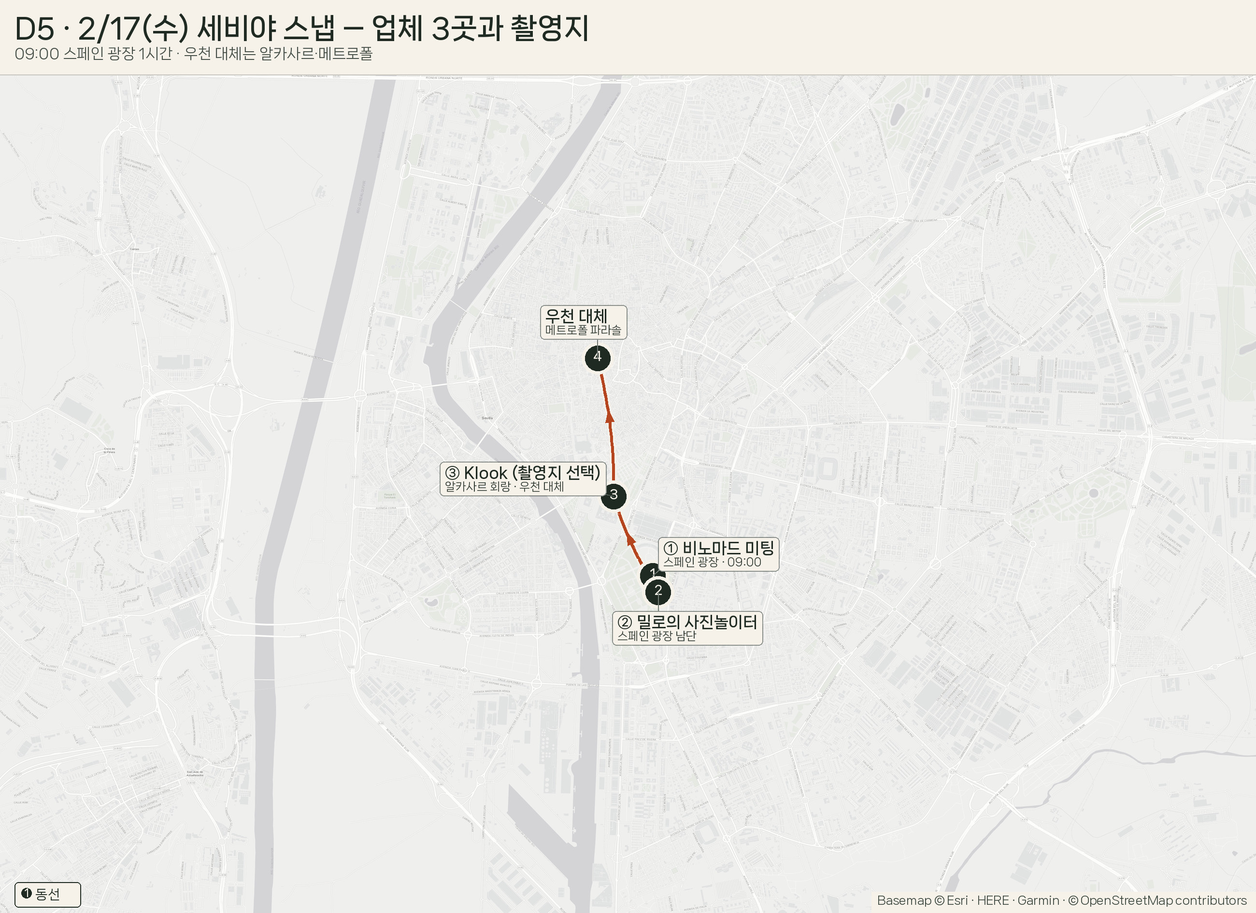
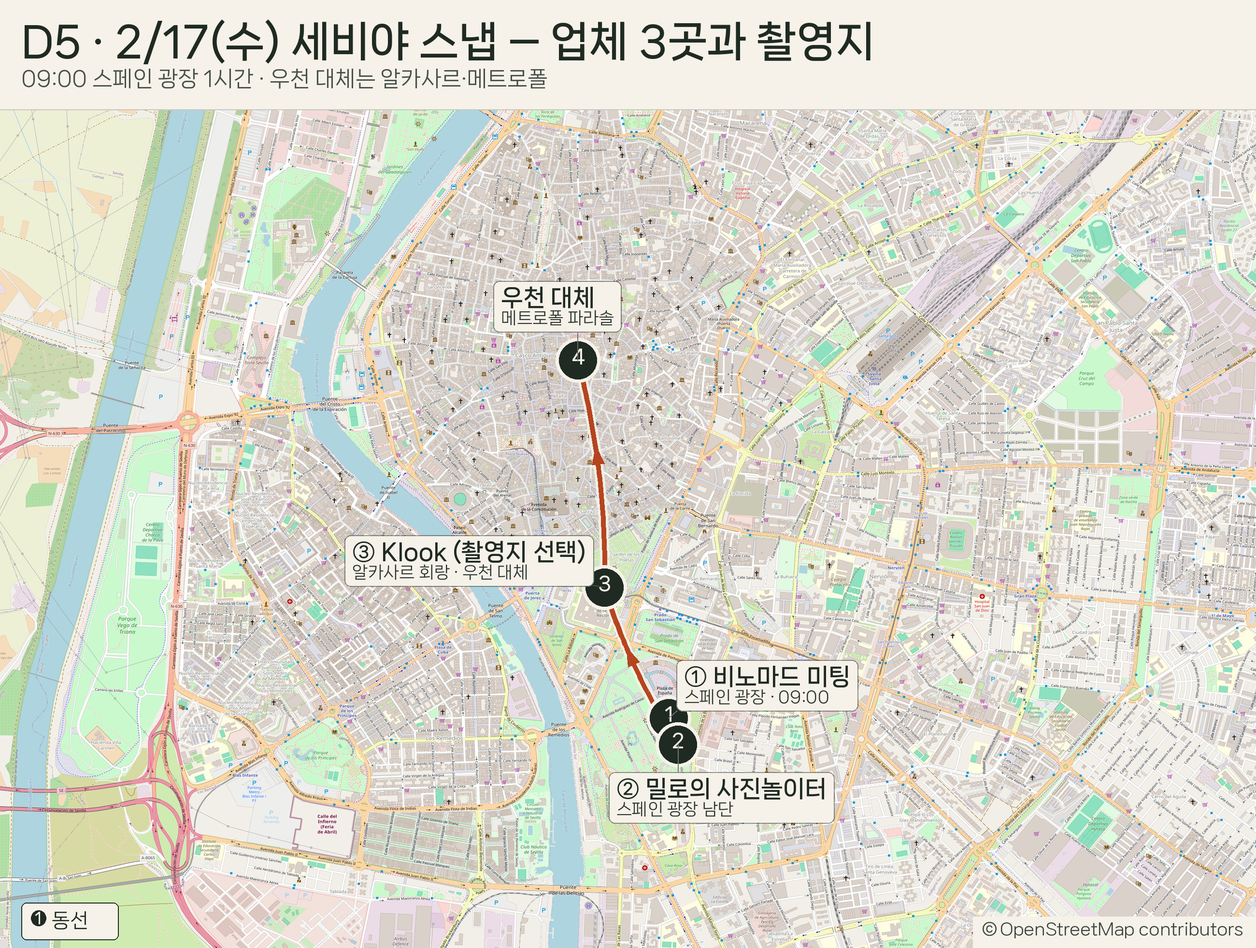
주간 갱신: 항공·숙박 실시간 요금 반영 (2026-11-16)

diff --git a/itinerary.html b/itinerary.html
@@ -262,7 +262,7 @@ body::after{
       
     </header>
 
-    <figure class="day-map"><img src="img/S-00-전체동선.jpg" alt="D1 · 2/13 (토) 인천 → 암스테르담 지도" loading="eager"><figcaption>동선 개요도 · WGS84 좌표를 메르카토르로 투영</figcaption></figure>
+    <figure class="day-map"><img src="img/00-전체동선.jpg" alt="D1 · 2/13 (토) 인천 → 암스테르담 지도" loading="eager"><figcaption>지도 © OpenStreetMap contributors</figcaption></figure>
 
     <table class="ledger">
       <caption class="sr-only">D1 · 2/13 (토) 인천 → 암스테르담 시간표</caption>
@@ -298,7 +298,7 @@ body::after{
       <div class="wx-pill"><b>리스본</b><span>최고 <b>17.1℃</b> / 최저 <b>9.9℃</b></span><small>강수일 20% · 과거 5년 평균(예보 아님)</small></div>
     </header>
 
-    <figure class="day-map"><img src="img/S-D02b-리스본벨렝.jpg" alt="D2 · 2/14 (일) 리스본 → 포르투 지도" loading="eager"><figcaption>동선 개요도 · WGS84 좌표를 메르카토르로 투영</figcaption></figure>
+    <figure class="day-map"><img src="img/D02b-리스본벨렝.jpg" alt="D2 · 2/14 (일) 리스본 → 포르투 지도" loading="eager"><figcaption>지도 © OpenStreetMap contributors</figcaption></figure>
 
     <table class="ledger">
       <caption class="sr-only">D2 · 2/14 (일) 리스본 → 포르투 시간표</caption>
@@ -340,7 +340,7 @@ body::after{
       <div class="wx-pill"><b>포르투</b><span>최고 <b>16.1℃</b> / 최저 <b>9.3℃</b></span><small>강수일 40% · 과거 5년 평균(예보 아님)</small></div>
     </header>
 
-    <figure class="day-map"><img src="img/S-D03-포르투.jpg" alt="D3 · 2/15 (월) 포르투 — 리베이라 · 렐루 서점 지도" loading="eager"><figcaption>동선 개요도 · WGS84 좌표를 메르카토르로 투영</figcaption></figure>
+    <figure class="day-map"><img src="img/D03-포르투.jpg" alt="D3 · 2/15 (월) 포르투 — 리베이라 · 렐루 서점 지도" loading="eager"><figcaption>지도 © OpenStreetMap contributors</figcaption></figure>
 
     <table class="ledger">
       <caption class="sr-only">D3 · 2/15 (월) 포르투 — 리베이라 · 렐루 서점 시간표</caption>
@@ -379,7 +379,7 @@ body::after{
       <div class="wx-pill"><b>세비야</b><span>최고 <b>19.4℃</b> / 최저 <b>8.8℃</b></span><small>강수일 0% · 과거 5년 평균(예보 아님)</small></div>
     </header>
 
-    <figure class="day-map"><img src="img/S-D04b-세비야시내.jpg" alt="D4 · 2/16 (화) 포르투 → 세비야 지도" loading="eager"><figcaption>동선 개요도 · WGS84 좌표를 메르카토르로 투영</figcaption></figure>
+    <figure class="day-map"><img src="img/D04b-세비야시내.jpg" alt="D4 · 2/16 (화) 포르투 → 세비야 지도" loading="eager"><figcaption>지도 © OpenStreetMap contributors</figcaption></figure>
 
     <table class="ledger">
       <caption class="sr-only">D4 · 2/16 (화) 포르투 → 세비야 시간표</caption>
@@ -419,7 +419,7 @@ body::after{
       <div class="wx-pill"><b>세비야</b><span>최고 <b>19.7℃</b> / 최저 <b>9.1℃</b></span><small>강수일 0% · 과거 5년 평균(예보 아님)</small></div>
     </header>
 
-    <figure class="day-map"><img src="img/S-D05-세비야.jpg" alt="D5 · 2/17 (수) 세비야 — 스냅 · 알카사르 지도" loading="eager"><figcaption>동선 개요도 · WGS84 좌표를 메르카토르로 투영</figcaption></figure>
+    <figure class="day-map"><img src="img/D05-세비야.jpg" alt="D5 · 2/17 (수) 세비야 — 스냅 · 알카사르 지도" loading="eager"><figcaption>지도 © OpenStreetMap contributors</figcaption></figure>
 
     <table class="ledger">
       <caption class="sr-only">D5 · 2/17 (수) 세비야 — 스냅 · 알카사르 시간표</caption>
@@ -458,7 +458,7 @@ body::after{
       <div class="wx-pill"><b>그라나다</b><span>최고 <b>18.7℃</b> / 최저 <b>6.1℃</b></span><small>강수일 0% · 과거 5년 평균(예보 아님)</small></div>
     </header>
 
-    <figure class="day-map"><img src="img/S-D06b-그라나다알바이신.jpg" alt="D6 · 2/18 (목) 세비야 → 그라나다 지도" loading="eager"><figcaption>동선 개요도 · WGS84 좌표를 메르카토르로 투영</figcaption></figure>
+    <figure class="day-map"><img src="img/D06b-그라나다알바이신.jpg" alt="D6 · 2/18 (목) 세비야 → 그라나다 지도" loading="eager"><figcaption>지도 © OpenStreetMap contributors</figcaption></figure>
 
     <table class="ledger">
       <caption class="sr-only">D6 · 2/18 (목) 세비야 → 그라나다 시간표</caption>
@@ -496,7 +496,7 @@ body::after{
       <div class="wx-pill"><b>그라나다</b><span>최고 <b>16.8℃</b> / 최저 <b>6.0℃</b></span><small>강수일 0% · 과거 5년 평균(예보 아님)</small></div>
     </header>
 
-    <figure class="day-map"><img src="img/S-D07-그라나다알함브라.jpg" alt="D7 · 2/19 (금) 그라나다 — 알함브라 지도" loading="eager"><figcaption>동선 개요도 · WGS84 좌표를 메르카토르로 투영</figcaption></figure>
+    <figure class="day-map"><img src="img/D07-그라나다알함브라.jpg" alt="D7 · 2/19 (금) 그라나다 — 알함브라 지도" loading="eager"><figcaption>지도 © OpenStreetMap contributors</figcaption></figure>
 
     <table class="ledger">
       <caption class="sr-only">D7 · 2/19 (금) 그라나다 — 알함브라 시간표</caption>
@@ -534,7 +534,7 @@ body::after{
       <div class="wx-pill"><b>바르셀로나</b><span>최고 <b>16.0℃</b> / 최저 <b>7.7℃</b></span><small>강수일 0% · 과거 5년 평균(예보 아님)</small></div>
     </header>
 
-    <figure class="day-map"><img src="img/S-D08b-바르셀로나쇼핑.jpg" alt="D8 · 2/20 (토) 그라나다 → 바르셀로나 — 쇼핑 ① 지도" loading="eager"><figcaption>동선 개요도 · WGS84 좌표를 메르카토르로 투영</figcaption></figure>
+    <figure class="day-map"><img src="img/D08b-바르셀로나쇼핑.jpg" alt="D8 · 2/20 (토) 그라나다 → 바르셀로나 — 쇼핑 ① 지도" loading="eager"><figcaption>지도 © OpenStreetMap contributors</figcaption></figure>
 
     <table class="ledger">
       <caption class="sr-only">D8 · 2/20 (토) 그라나다 → 바르셀로나 — 쇼핑 ① 시간표</caption>
@@ -575,7 +575,7 @@ body::after{
       <div class="wx-pill"><b>바르셀로나</b><span>최고 <b>16.5℃</b> / 최저 <b>7.6℃</b></span><small>강수일 20% · 과거 5년 평균(예보 아님)</small></div>
     </header>
 
-    <figure class="day-map"><img src="img/S-D09-바르셀로나.jpg" alt="D9 · 2/21 (일) 바르셀로나 — 가우디 건축 지도" loading="eager"><figcaption>동선 개요도 · WGS84 좌표를 메르카토르로 투영</figcaption></figure>
+    <figure class="day-map"><img src="img/D09-바르셀로나.jpg" alt="D9 · 2/21 (일) 바르셀로나 — 가우디 건축 지도" loading="eager"><figcaption>지도 © OpenStreetMap contributors</figcaption></figure>
 
     <table class="ledger">
       <caption class="sr-only">D9 · 2/21 (일) 바르셀로나 — 가우디 건축 시간표</caption>
@@ -615,7 +615,7 @@ body::after{
       <div class="wx-pill"><b>몬세라트</b><span>최고 <b>14.5℃</b> / 최저 <b>2.4℃</b></span><small>강수일 40% · 과거 5년 평균(예보 아님)</small></div>
     </header>
 
-    <figure class="day-map day-slider" data-slides="2"><div class="slides"><div class="slide" role="group" aria-label="가는 길 1"><img src="img/S-D10a-몬세라트노선.jpg" alt="D10 바르셀로나 — 몬세라트 · 소년합창단 가는 길 지도" loading="eager"><span class="slide-tag">가는 길</span></div><div class="slide" role="group" aria-label="수도원 2" hidden><img src="img/S-D10b-몬세라트수도원.jpg" alt="D10 바르셀로나 — 몬세라트 · 소년합창단 수도원 지도" loading="lazy"><span class="slide-tag">수도원</span></div></div><div class="slider-nav"><button type="button" class="prev" aria-label="이전 지도">‹</button><div class="dots"><button type="button" aria-label="가는 길 지도 보기" aria-current="true"></button><button type="button" aria-label="수도원 지도 보기"></button></div><button type="button" class="next" aria-label="다음 지도">›</button></div><figcaption>동선 개요도 · 먼 구간과 가까운 구간을 나눠 봄</figcaption></figure>
+    <figure class="day-map day-slider" data-slides="2"><div class="slides"><div class="slide" role="group" aria-label="가는 길 1"><img src="img/D10a-몬세라트노선.jpg" alt="D10 바르셀로나 — 몬세라트 · 소년합창단 가는 길 지도" loading="eager"><span class="slide-tag">가는 길</span></div><div class="slide" role="group" aria-label="수도원 2" hidden><img src="img/D10b-몬세라트수도원.jpg" alt="D10 바르셀로나 — 몬세라트 · 소년합창단 수도원 지도" loading="lazy"><span class="slide-tag">수도원</span></div></div><div class="slider-nav"><button type="button" class="prev" aria-label="이전 지도">‹</button><div class="dots"><button type="button" aria-label="가는 길 지도 보기" aria-current="true"></button><button type="button" aria-label="수도원 지도 보기"></button></div><button type="button" class="next" aria-label="다음 지도">›</button></div><figcaption>가는 길 · 현지 확대 © OpenStreetMap contributors</figcaption></figure>
 
     <table class="ledger">
       <caption class="sr-only">D10 · 2/22 (월) 바르셀로나 — 몬세라트 · 소년합창단 시간표</caption>
@@ -658,7 +658,7 @@ body::after{
       <div class="wx-pill"><b>바르셀로나</b><span>최고 <b>15.7℃</b> / 최저 <b>6.9℃</b></span><small>강수일 60% · 과거 5년 평균(예보 아님)</small></div>
     </header>
 
-    <figure class="day-map"><img src="img/S-D11-바르셀로나출국.jpg" alt="D11 · 2/23 (화) 바르셀로나 → 인천 지도" loading="eager"><figcaption>동선 개요도 · WGS84 좌표를 메르카토르로 투영</figcaption></figure>
+    <figure class="day-map"><img src="img/D11-바르셀로나출국.jpg" alt="D11 · 2/23 (화) 바르셀로나 → 인천 지도" loading="eager"><figcaption>지도 © OpenStreetMap contributors</figcaption></figure>
 
     <table class="ledger">
       <caption class="sr-only">D11 · 2/23 (화) 바르셀로나 → 인천 시간표</caption>

diff --git a/index.html b/index.html
@@ -293,7 +293,7 @@ footer{border-top:3px solid var(--rule-strong); margin-top:var(--s-8); padding-t
 <section class="block">
   <div class="wrap"><h2>날짜별 지도 — 크게 보기</h2>
   <p class="sub">각 날짜의 동선을 지도 위에 번호로 얹었어요. 누르면 그날의 시각표로 넘어가요.</p></div>
-  <div class="wrap"><div class="gallery"><figure><a href="itinerary.html#day-2" aria-label="D2 · 2/14(일) 2/14 (일) 리스본 → 포르투 일정 보기"><img src="img/S-D02b-리스본벨렝.jpg" alt="D2 · 2/14(일) 2/14 (일) 리스본 → 포르투 지도" loading="lazy"></a><figcaption>D2 · 2/14 (일) — 리스본 → 포르투<small>LIS 10:30 · 제로니무스 · 21:05 포르투</small></figcaption></figure><figure><a href="itinerary.html#day-3" aria-label="D3 · 2/15(월) 2/15 (월) 포르투 — 리베이라 · 렐루 서점 일정 보기"><img src="img/S-D03-포르투.jpg" alt="D3 · 2/15(월) 2/15 (월) 포르투 — 리베이라 · 렐루 서점 지도" loading="lazy"></a><figcaption>D3 · 2/15 (월) — 포르투 — 리베이라 · 렐루 서점<small>렐루 서점 · 리베이라 · 카사 게데스</small></figcaption></figure><figure><a href="itinerary.html#day-4" aria-label="D4 · 2/16(화) 2/16 (화) 포르투 → 세비야 일정 보기"><img src="img/S-D04b-세비야시내.jpg" alt="D4 · 2/16(화) 2/16 (화) 포르투 → 세비야 지도" loading="lazy"></a><figcaption>D4 · 2/16 (화) — 포르투 → 세비야<small>라이언 2h15 → 세비야 · 대성당</small></figcaption></figure><figure><a href="itinerary.html#day-5" aria-label="D5 · 2/17(수) 2/17 (수) 세비야 — 스냅 · 알카사르 일정 보기"><img src="img/S-D05-세비야.jpg" alt="D5 · 2/17(수) 2/17 (수) 세비야 — 스냅 · 알카사르 지도" loading="lazy"></a><figcaption>D5 · 2/17 (수) — 세비야 — 스냅 · 알카사르<small>스냅 촬영 · 레알 알카사르</small></figcaption></figure><figure><a href="itinerary.html#day-6" aria-label="D6 · 2/18(목) 2/18 (목) 세비야 → 그라나다 일정 보기"><img src="img/S-D06b-그라나다알바이신.jpg" alt="D6 · 2/18(목) 2/18 (목) 세비야 → 그라나다 지도" loading="lazy"></a><figcaption>D6 · 2/18 (목) — 세비야 → 그라나다<small>알사 버스 3h → 그라나다 · 알바이신</small></figcaption></figure><figure><a href="itinerary.html#day-7" aria-label="D7 · 2/19(금) 2/19 (금) 그라나다 — 알함브라 일정 보기"><img src="img/S-D07-그라나다알함브라.jpg" alt="D7 · 2/19(금) 2/19 (금) 그라나다 — 알함브라 지도" loading="lazy"></a><figcaption>D7 · 2/19 (금) — 그라나다 — 알함브라<small>알함브라 나사리 궁전 · 헤네랄리페</small></figcaption></figure><figure><a href="itinerary.html#day-8" aria-label="D8 · 2/20(토) 2/20 (토) 그라나다 → 바르셀로나 — 쇼핑 ① 일정 보기"><img src="img/S-D08b-바르셀로나쇼핑.jpg" alt="D8 · 2/20(토) 2/20 (토) 그라나다 → 바르셀로나 — 쇼핑 ① 지도" loading="lazy"></a><figcaption>D8 · 2/20 (토) — 그라나다 → 바르셀로나 — 쇼핑 ①<small>부엘링 1h25 → 바르셀로나 · 쇼핑 ①</small></figcaption></figure><figure><a href="itinerary.html#day-9" aria-label="D9 · 2/21(일) 2/21 (일) 바르셀로나 — 가우디 건축 일정 보기"><img src="img/S-D09-바르셀로나.jpg" alt="D9 · 2/21(일) 2/21 (일) 바르셀로나 — 가우디 건축 지도" loading="lazy"></a><figcaption>D9 · 2/21 (일) — 바르셀로나 — 가우디 건축<small>가우디 — 구엘 · 사그라다 내부</small></figcaption></figure><figure><a href="itinerary.html#day-10" aria-label="D10 2/22 (월) 바르셀로나 — 몬세라트 · 소년합창단 일정 보기"><img src="img/S-D10a-몬세라트노선.jpg" alt="D10 2/22 (월) 바르셀로나 — 몬세라트 · 소년합창단 지도" loading="lazy"></a><figcaption>D10 · 2/22 (월) — 바르셀로나 — 몬세라트 · 소년합창단<small>몬세라트 · 에스콜라니아 13:00 · 쇼핑 ②</small></figcaption></figure><figure><a href="itinerary.html#day-11" aria-label="D11 2/23 (화) 바르셀로나 → 인천 일정 보기"><img src="img/S-D11-바르셀로나출국.jpg" alt="D11 2/23 (화) 바르셀로나 → 인천 지도" loading="lazy"></a><figcaption>D11 · 2/23 (화) — 바르셀로나 → 인천<small>AF1149 BCN 10:05 → 2/24 11:15 인천</small></figcaption></figure></div></div>
+  <div class="wrap"><div class="gallery"><figure><a href="itinerary.html#day-2" aria-label="D2 · 2/14(일) 2/14 (일) 리스본 → 포르투 일정 보기"><img src="img/D02b-리스본벨렝.jpg" alt="D2 · 2/14(일) 2/14 (일) 리스본 → 포르투 지도" loading="lazy"></a><figcaption>D2 · 2/14 (일) — 리스본 → 포르투<small>LIS 10:30 · 제로니무스 · 21:05 포르투</small></figcaption></figure><figure><a href="itinerary.html#day-3" aria-label="D3 · 2/15(월) 2/15 (월) 포르투 — 리베이라 · 렐루 서점 일정 보기"><img src="img/D03-포르투.jpg" alt="D3 · 2/15(월) 2/15 (월) 포르투 — 리베이라 · 렐루 서점 지도" loading="lazy"></a><figcaption>D3 · 2/15 (월) — 포르투 — 리베이라 · 렐루 서점<small>렐루 서점 · 리베이라 · 카사 게데스</small></figcaption></figure><figure><a href="itinerary.html#day-4" aria-label="D4 · 2/16(화) 2/16 (화) 포르투 → 세비야 일정 보기"><img src="img/D04b-세비야시내.jpg" alt="D4 · 2/16(화) 2/16 (화) 포르투 → 세비야 지도" loading="lazy"></a><figcaption>D4 · 2/16 (화) — 포르투 → 세비야<small>라이언 2h15 → 세비야 · 대성당</small></figcaption></figure><figure><a href="itinerary.html#day-5" aria-label="D5 · 2/17(수) 2/17 (수) 세비야 — 스냅 · 알카사르 일정 보기"><img src="img/D05-세비야.jpg" alt="D5 · 2/17(수) 2/17 (수) 세비야 — 스냅 · 알카사르 지도" loading="lazy"></a><figcaption>D5 · 2/17 (수) — 세비야 — 스냅 · 알카사르<small>스냅 촬영 · 레알 알카사르</small></figcaption></figure><figure><a href="itinerary.html#day-6" aria-label="D6 · 2/18(목) 2/18 (목) 세비야 → 그라나다 일정 보기"><img src="img/D06b-그라나다알바이신.jpg" alt="D6 · 2/18(목) 2/18 (목) 세비야 → 그라나다 지도" loading="lazy"></a><figcaption>D6 · 2/18 (목) — 세비야 → 그라나다<small>알사 버스 3h → 그라나다 · 알바이신</small></figcaption></figure><figure><a href="itinerary.html#day-7" aria-label="D7 · 2/19(금) 2/19 (금) 그라나다 — 알함브라 일정 보기"><img src="img/D07-그라나다알함브라.jpg" alt="D7 · 2/19(금) 2/19 (금) 그라나다 — 알함브라 지도" loading="lazy"></a><figcaption>D7 · 2/19 (금) — 그라나다 — 알함브라<small>알함브라 나사리 궁전 · 헤네랄리페</small></figcaption></figure><figure><a href="itinerary.html#day-8" aria-label="D8 · 2/20(토) 2/20 (토) 그라나다 → 바르셀로나 — 쇼핑 ① 일정 보기"><img src="img/D08b-바르셀로나쇼핑.jpg" alt="D8 · 2/20(토) 2/20 (토) 그라나다 → 바르셀로나 — 쇼핑 ① 지도" loading="lazy"></a><figcaption>D8 · 2/20 (토) — 그라나다 → 바르셀로나 — 쇼핑 ①<small>부엘링 1h25 → 바르셀로나 · 쇼핑 ①</small></figcaption></figure><figure><a href="itinerary.html#day-9" aria-label="D9 · 2/21(일) 2/21 (일) 바르셀로나 — 가우디 건축 일정 보기"><img src="img/D09-바르셀로나.jpg" alt="D9 · 2/21(일) 2/21 (일) 바르셀로나 — 가우디 건축 지도" loading="lazy"></a><figcaption>D9 · 2/21 (일) — 바르셀로나 — 가우디 건축<small>가우디 — 구엘 · 사그라다 내부</small></figcaption></figure><figure><a href="itinerary.html#day-10" aria-label="D10 2/22 (월) 바르셀로나 — 몬세라트 · 소년합창단 일정 보기"><img src="img/D10a-몬세라트노선.jpg" alt="D10 2/22 (월) 바르셀로나 — 몬세라트 · 소년합창단 지도" loading="lazy"></a><figcaption>D10 · 2/22 (월) — 바르셀로나 — 몬세라트 · 소년합창단<small>몬세라트 · 에스콜라니아 13:00 · 쇼핑 ②</small></figcaption></figure><figure><a href="itinerary.html#day-11" aria-label="D11 2/23 (화) 바르셀로나 → 인천 일정 보기"><img src="img/D11-바르셀로나출국.jpg" alt="D11 2/23 (화) 바르셀로나 → 인천 지도" loading="lazy"></a><figcaption>D11 · 2/23 (화) — 바르셀로나 → 인천<small>AF1149 BCN 10:05 → 2/24 11:15 인천</small></figcaption></figure></div></div>
 </section>
 
 <section class="block wrap">
